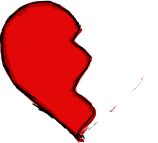
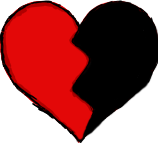
made the hearts better

diff --git a/Assets/Dungeon.cs b/Assets/Dungeon.cs
@@ -40,9 +40,10 @@ public class Dungeon : MonoBehaviour
 			return __state;
 		}
 		
-		private set
+		private set 
 		{
-			
+			if(value == State.DEFEAT)
+				Debug.Log ("Defeat?!");
 			__state = value;
 		}
 	}
@@ -123,7 +124,7 @@ public class Dungeon : MonoBehaviour
 	#endregion dungeon progression 
 	
 	#region user interface 
-	public Texture heart, halfHeart;
+	public Texture heart, halfHeart, emptyHeart;
 	
 	void OnGUI()
 	{
@@ -173,13 +174,16 @@ public class Dungeon : MonoBehaviour
 		
 		
 		GUI.Box(new Rect(20, 100, 300, 50), "room: " + currentRoomNumber);
-		//GUI.Box(new Rect(20, 20, 300, 50), "Stamina: " + currentStamina);
+
+		// show player health as hearts
 		for(int i = 1; i <= 20; i++)
 		{
 			if(i % 2 == 0 && i <= currentStamina)
 				GUI.Label (new Rect(20+(i*15),20,30,30),heart);
 			if(i % 2 == 1 && i == currentStamina)
-				GUI.Label (new Rect(20+((i+1)*15),20,30,30),halfHeart);				
+				GUI.Label (new Rect(20+((i+1)*15),20,30,30),halfHeart);
+			if(i % 2 == 0 && i>currentStamina && (i-1) != currentStamina)
+				GUI.Label (new Rect(20+(i*15),20,30,30),emptyHeart);
 		}
 		
 		
